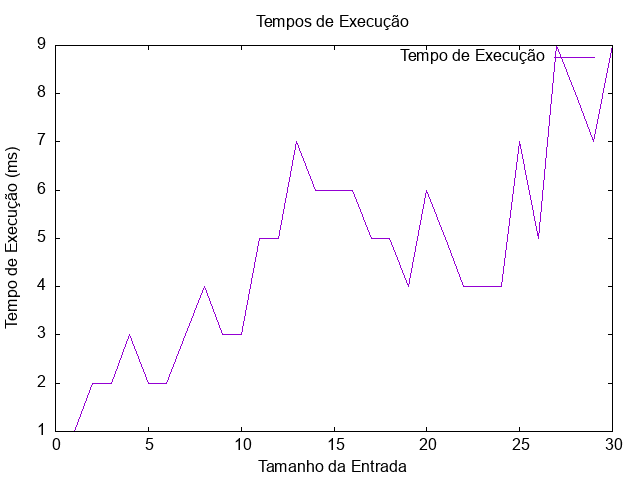
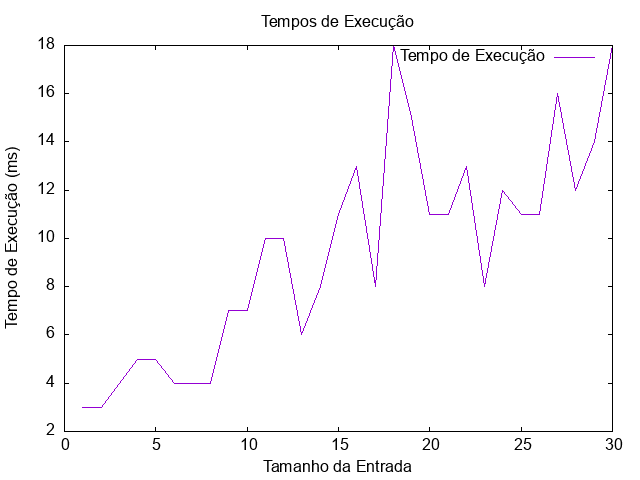
.

diff --git a/src/main/java/mdisc/Grafo.java b/src/main/java/mdisc/Grafo.java
@@ -9,145 +9,136 @@ import java.nio.file.Paths;
 import java.util.*;
 
 public class Grafo {
-    private int vertice;
-    private int aresta;
-    private ArrayList<Aresta> arestas;
 
-    public Grafo() {
-        arestas = new ArrayList<>();
-    }
+    public static List<Aresta> encontrarArvoreGeradora(List<Aresta> edges, List<Aresta> mstEdges) {
+        edges.sort(Comparator.comparingInt(Aresta::getPeso));
 
-    public void addAresta(int origem, int destino, int peso) {
-        arestas.add(new Aresta(origem, destino, peso));
-    }
+        Map<String, String> parent = new HashMap<>();
+        Map<String, Integer> rank = new HashMap<>();
+        Set<String> vertices = new HashSet<>();
 
-    public int encontrar(int[] subset, int i) {
-        if (subset[i] == -1)
-            return i;
-        return encontrar(subset, subset[i]);
-    }
+        for (Aresta edge : edges) {
+            vertices.add(edge.getOrigem());
+            vertices.add(edge.getDestino());
+        }
 
-    public void unir(int[] subset, int x, int y) {
-        int xroot = encontrar(subset, x);
-        int yroot = encontrar(subset, y);
-        subset[xroot] = yroot;
-    }
+        for (Aresta edge : edges) {
+            String rootX = findRoot(parent, edge.getOrigem());
+            String rootY = findRoot(parent, edge.getDestino());
 
-    public void encontrarArvoreGeradoraUS13() {
-        Aresta[] resultado = new Aresta[vertice];
-        int e = 0;
-        int i = 0;
-        int custoTotal = 0;
+            // Check if adding this edge creates a cycle
+            if (!rootX.equals(rootY)) {
+                mstEdges.add(edge);
 
-        for (i = 0; i < vertice; ++i)
-            resultado[i] = new Aresta(0, 0, 0);
+                // Union by rank to optimize the tree structure
+                modifiedUnion(parent, rank, rootX, rootY);
 
-        Collections.sort(arestas);
-
-        int[] subset = new int[vertice];
-        Arrays.fill(subset, -1);
-
-        i = 0;
-
-        try (FileWriter writer = new FileWriter("src/main/java/mdisc/output_JardimDosSentimentos.csv")) {
-            while (e < vertice - 1 && i < aresta) {
-                Aresta proximaAresta = arestas.get(i++);
-
-                int x = encontrar(subset, proximaAresta.getOrigem());
-                int y = encontrar(subset, proximaAresta.getDestino());
-
-                if (x != y) {
-                    resultado[e++] = proximaAresta;
-                    unir(subset, x, y);
-
-                    writer.append(String.valueOf(proximaAresta.getOrigem())).append(";").append(String.valueOf(proximaAresta.getDestino())).append(";").append(String.valueOf(proximaAresta.getPeso())).append("\n");
-
-                    custoTotal += proximaAresta.getPeso();
+                // If we have added enough edges, stop
+                if (mstEdges.size() == vertices.size() - 1) {
+                    break;
                 }
             }
+        }
 
-            writer.append("Cost of a Minimum spanning tree = ").append(String.valueOf(custoTotal)).append("\n");
+        return mstEdges;
+    }
 
-            generateDotFile(resultado, "src/main/java/mdisc/output_JardimDosSentimentos.dot");
+    private static String findRoot(Map<String, String> parent, String node) {
+        if (!parent.containsKey(node)) {
+            parent.put(node, node);
+        }
+        while (!parent.get(node).equals(node)) {
+            node = parent.get(node);
+        }
+        return node;
+    }
 
-            renderDotFile("src/main/java/mdisc/output_JardimDosSentimentos.dot", "src/main/java/mdisc/output_JardimDosSentimentos.png");
+    private static void modifiedUnion(Map<String, String> parent, Map<String, Integer> rank, String x, String y) {
+        String rootX = findRoot(parent, x);
+        String rootY = findRoot(parent, y);
 
-            System.out.println("Arquivo 'output_JardimDosSentimentos' criado com sucesso.");
+        if (rootX.equals(rootY)) {
+            return;
+        }
 
-        } catch (IOException ex) {
-            System.err.println("Erro ao escrever no arquivo CSV: " + ex.getMessage());
+        if (rank.getOrDefault(rootX, 0) < rank.getOrDefault(rootY, 0)) {
+            parent.put(rootX, rootY);
+        } else if (rank.getOrDefault(rootX, 0) > rank.getOrDefault(rootY, 0)) {
+            parent.put(rootY, rootX);
+        } else {
+            parent.put(rootY, rootX);
+            rank.put(rootX, rank.getOrDefault(rootX, 0) + 1);
         }
     }
 
-    public void encontrarArvoreGeradoraUS14() {
-        Aresta[] resultado = new Aresta[vertice];
-        int e = 0;
-        int i = 0;
-        int custoTotal = 0;
+    public static void gerarOutputExcel(String caminhoCsv, String nomeArquivoOutput) throws IOException {
+        List<Aresta> arestas = ImportarCsv.lerGrafoDeCSV(caminhoCsv);
+        List<Aresta> mstEdges = encontrarArvoreGeradora(arestas, new ArrayList<>());
 
-        for (i = 0; i < vertice; ++i)
-            resultado[i] = new Aresta(0, 0, 0);
+        try (PrintWriter writer = new PrintWriter(new File(nomeArquivoOutput))) {
+            StringBuilder sb = new StringBuilder();
+            sb.append("Origem, Destino, Peso\n");
 
-        Collections.sort(arestas);
+            for (Aresta aresta : mstEdges) {
+                sb.append(aresta.getOrigem()).append(",");
+                sb.append(aresta.getDestino()).append(",");
+                sb.append(aresta.getPeso()).append("\n");
+            }
 
-        int[] subset = new int[vertice];
-        Arrays.fill(subset, -1);
+            writer.write(sb.toString());
+        }
 
-        i = 0;
+        // Gera o arquivo DOT
+        generateDotFile(mstEdges.toArray(new Aresta[0]), nomeArquivoOutput + ".dot");
 
-            while (e < vertice - 1 && i < aresta) {
-                Aresta proximaAresta = arestas.get(i++);
+        // Renderiza o arquivo DOT como imagem PNG
+        renderDotFile(nomeArquivoOutput + ".dot", nomeArquivoOutput + ".png");
 
-                int x = encontrar(subset, proximaAresta.getOrigem());
-                int y = encontrar(subset, proximaAresta.getDestino());
+    }
 
-                if (x != y) {
-                    resultado[e++] = proximaAresta;
-                    unir(subset, x, y);
-
-                    custoTotal += proximaAresta.getPeso();
+    public static void generateDotFile(Aresta[] resultado, String filename) throws IOException {
+        try (FileWriter writer = new FileWriter(filename)) {
+            writer.write("graph G {\n");
+            for (Aresta aresta : resultado) {
+                if (aresta.getPeso() != 0) {
+                    writer.write(aresta.getOrigem() + " -- " + aresta.getDestino() + " [label=\"" + aresta.getPeso() + "\"];\n");
                 }
             }
-
-    }
-
-    public void generateDotFile(Aresta[] resultado, String filename) throws IOException {
-        FileWriter writer = new FileWriter(filename);
-
-        writer.write("graph G {\n");
-        for (Aresta aresta : resultado) {
-            if (aresta.getPeso() != 0) {
-                writer.write(aresta.getOrigem() + " -- " + aresta.getDestino() + " [label=\"" + aresta.getPeso() + "\"];\n");
-            }
+            writer.write("}\n");
         }
-        writer.write("}\n");
-
-        writer.close();
     }
 
-    public void renderDotFile(String dotFileName, String outputFileName) throws IOException {
+    public static void renderDotFile(String dotFileName, String outputFileName) throws IOException {
         String[] cmd = {"dot", "-Tpng", dotFileName, "-o", outputFileName};
-        Runtime.getRuntime().exec(cmd);
+        ProcessBuilder pb = new ProcessBuilder(cmd);
+        pb.redirectErrorStream(true);
+        Process process = pb.start();
+
+        try {
+            process.waitFor();
+        } catch (InterruptedException e) {
+            e.printStackTrace();
+        }
     }
 
-    public void runAlgorithmTests() {
-        try (FileWriter csvWriter = new FileWriter("src/main/java/mdisc/execution_times.csv")) {
-            csvWriter.append("Tamanho da Entrada,Tempo de Execução (ms)\n");
+    public static void runAlgorithmTests(String ficheiroInput, String ficheiroOutputCsv, String ficheiroOutputPng) {
+        try (PrintWriter csvWriter = new PrintWriter(new File(ficheiroOutputCsv))) {
+            csvWriter.println("Tamanho da Entrada,Tempo de Execução (ms)");
 
             for (int i = 1; i <= 30; i++) {
-                Grafo grafo = ImportarCsv.lerGrafoDeCSV("datasets mdisc/us14_" + i + ".csv");
+                List<Aresta> arestas = ImportarCsv.lerGrafoDeCSV(ficheiroInput + i + ".csv");
 
                 long startTime = System.currentTimeMillis();
-                grafo.encontrarArvoreGeradoraUS14();
+                List<Aresta> mstEdges = encontrarArvoreGeradora(arestas, new ArrayList<>());
                 long endTime = System.currentTimeMillis();
                 long executionTime = endTime - startTime;
 
-                csvWriter.append(i + "," + executionTime + "\n");
+                csvWriter.println(i + "," + executionTime);
             }
 
             csvWriter.flush();
 
-            List<String> lines = Files.readAllLines(Paths.get("src/main/java/mdisc/execution_times.csv"));
+            List<String> lines = Files.readAllLines(Paths.get(ficheiroOutputCsv));
             int[] inputSizes = new int[lines.size() - 1];
             long[] executionTimes = new long[lines.size() - 1];
 
@@ -157,14 +148,14 @@ public class Grafo {
                 executionTimes[i - 1] = Long.parseLong(parts[1]);
             }
 
-            generateExecutionTimeGraphic(inputSizes, executionTimes, "src/main/java/mdisc/execution_time_graph.png");
+            generateExecutionTimeGraphic(inputSizes, executionTimes, ficheiroOutputPng);
 
         } catch (IOException ex) {
             System.err.println("Erro ao escrever no arquivo CSV: " + ex.getMessage());
         }
     }
 
-    public void generateExecutionTimeGraphic(int[] inputSizes, long[] executionTimes, String outputFileName) {
+    public static void generateExecutionTimeGraphic(int[] inputSizes, long[] executionTimes, String outputFileName) {
         try {
             String gnuplotCommands = "set terminal png\n"
                     + "set output '" + outputFileName + "'\n"
@@ -191,28 +182,4 @@ public class Grafo {
         }
     }
 
-
-    public int getAresta() {
-        return aresta;
-    }
-
-    public void setAresta(int a1) {
-        aresta = a1;
-    }
-
-    public int getVertice() {
-        return vertice;
-    }
-
-    public void setVertice(int v1) {
-        vertice = v1;
-    }
-
-    public ArrayList<Aresta> getArestas() {
-        return arestas;
-    }
-
-    public void setArestas(ArrayList<Aresta> arestas) {
-        this.arestas = arestas;
-    }
 }

diff --git a/src/main/java/mdisc/Main.java b/src/main/java/mdisc/Main.java
@@ -7,20 +7,22 @@ public class Main {
     public static void main(String[] args) {
         try {
             // Ler o grafo da US13
-            Grafo grafoUS13 = ImportarCsv.lerGrafoDeCSV("datasets mdisc/US13_JardimDosSentimentos.csv");
-            grafoUS13.generateDotFile(grafoUS13.getArestas().toArray(new Aresta[0]), "src/main/java/mdisc/input_JardimDosSentimentos.dot");
-            grafoUS13.renderDotFile("src/main/java/mdisc/input_JardimDosSentimentos.dot", "src/main/java/mdisc/input_JardimDosSentimentos.png");
-            System.out.println("Imagem do grafo de input gerada com sucesso.");
-            grafoUS13.encontrarArvoreGeradoraUS13();
+            String ficheiro = "datasets mdisc\\US13_JardimDosSentimentos.csv";
+            Grafo.gerarOutputExcel(ficheiro, "src\\main\\java\\mdisc\\output_menor_caminho.csv");
+            Aresta[] resultado = ImportarCsv.lerGrafoDeCSV(ficheiro).toArray(new Aresta[0]);
+
+            Grafo.generateDotFile(resultado, "src\\main\\java\\mdisc\\input_grafo.dot");
+            Grafo.renderDotFile("src\\main\\java\\mdisc\\input_grafo.dot", "src\\main\\java\\mdisc\\input_grafo.png");
 
             // Executar os testes de algoritmo da US14
-            Grafo grafoUS14 = new Grafo();
-            grafoUS14.runAlgorithmTests();
+            String inicioNome = "datasets mdisc\\us14_";
+            String outputFile = "src\\main\\java\\mdisc\\execution_time.csv";
+            String outputFilePng = "src\\main\\java\\mdisc\\execution_time_graph.png";
+            Grafo.runAlgorithmTests(inicioNome, outputFile, outputFilePng);
 
-        } catch (FileNotFoundException e) {
-            System.err.println("Arquivo não encontrado: " + e.getMessage());
         } catch (IOException e) {
-            throw new RuntimeException(e);
+            System.err.println("Erro ao processar o arquivo: " + e.getMessage());
         }
     }
+
 }

diff --git a/src/main/java/mdisc/ImportarCsv.java b/src/main/java/mdisc/ImportarCsv.java
@@ -2,24 +2,25 @@ package mdisc;
 
 import java.io.File;
 import java.io.FileNotFoundException;
+import java.util.ArrayList;
+import java.util.List;
 import java.util.Scanner;
 
 public class ImportarCsv {
-    public static Grafo lerGrafoDeCSV(String nomeArquivo) throws FileNotFoundException {
-        Scanner scanner = new Scanner(new File(nomeArquivo));
+    public static List<Aresta> lerGrafoDeCSV(String nomeArquivo) throws FileNotFoundException {
 
-        Grafo grafo = new Grafo();
+        List<Aresta> arestas = new ArrayList<>();
+
+        Scanner scanner = new Scanner(new File(nomeArquivo));
 
         while (scanner.hasNextLine()) {
             String[] linha = scanner.nextLine().split(";");
-            int origem = Integer.parseInt(linha[0]);
-            int destino = Integer.parseInt(linha[1]);
+            String origem = linha[0];
+            String destino = linha[1];
             int peso = Integer.parseInt(linha[2]);
-            grafo.addAresta(origem, destino, peso);
-            grafo.setVertice(Math.max(grafo.getVertice(), Math.max(origem, destino) + 1));
-            grafo.setAresta(grafo.getAresta() + 1);
+            arestas.add(new Aresta(origem, destino, peso));
         }
 
-        return grafo;
+        return arestas;
     }
 }

diff --git a/src/main/java/mdisc/Aresta.java b/src/main/java/mdisc/Aresta.java
@@ -1,43 +1,27 @@
 package mdisc;
 
-public class Aresta implements Comparable<Aresta> {
-    private int origem;
-    private int destino;
+public class Aresta {
+    private String origem;
+    private String destino;
     private int peso;
 
-    public Aresta(int origem, int destino, int peso) {
+    public Aresta(String origem, String destino, int peso) {
         this.origem = origem;
         this.destino = destino;
         this.peso = peso;
     }
 
-    public int getOrigem() {
+    public String getOrigem() {
         return origem;
-    }
-
-    public void setOrigem(int origem) {
-        this.origem = origem;
     }
 
     public int getPeso() {
         return peso;
     }
 
-    public void setPeso(int peso) {
-        this.peso = peso;
-    }
-
-    public int getDestino() {
+    public String getDestino() {
         return destino;
     }
 
-    public void setDestino(int destino) {
-        this.destino = destino;
-    }
-
-    @Override
-    public int compareTo(Aresta outraAresta) {
-        return this.peso - outraAresta.peso;
-    }
 }
 
